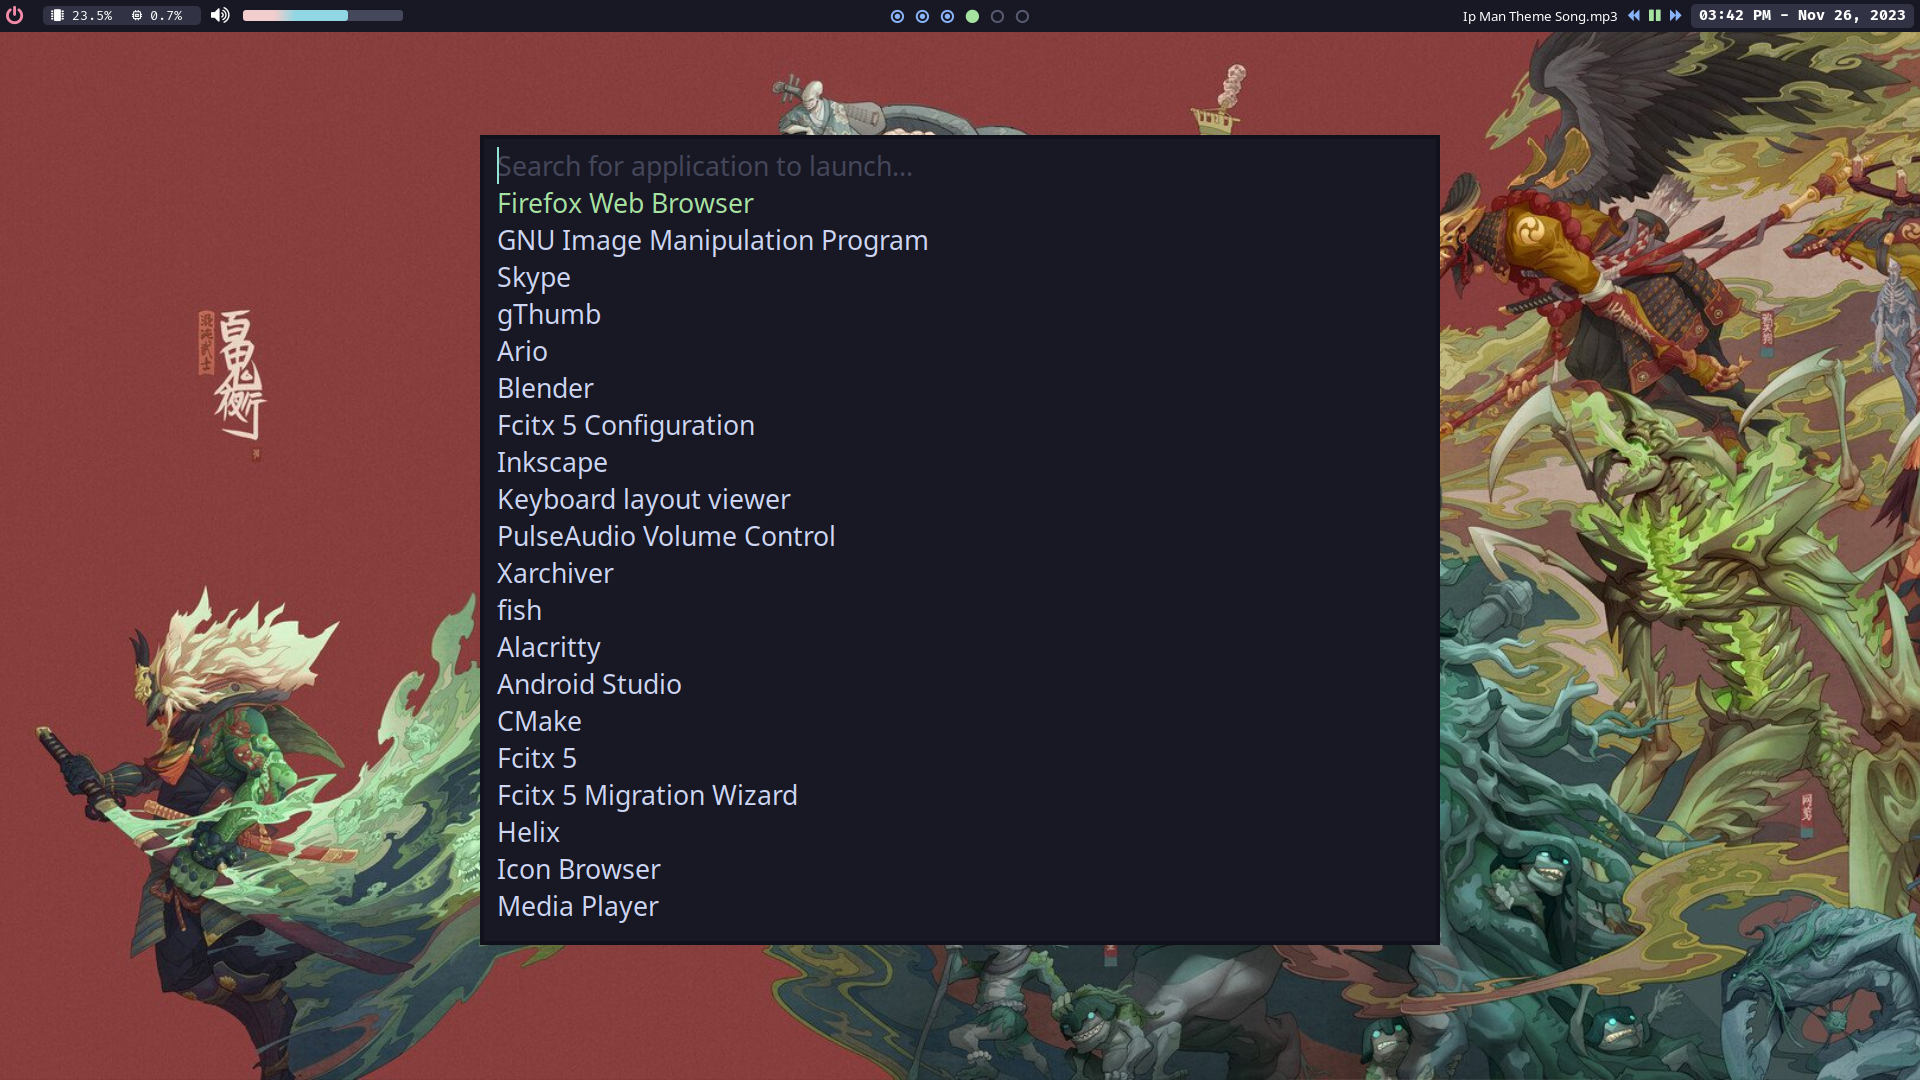
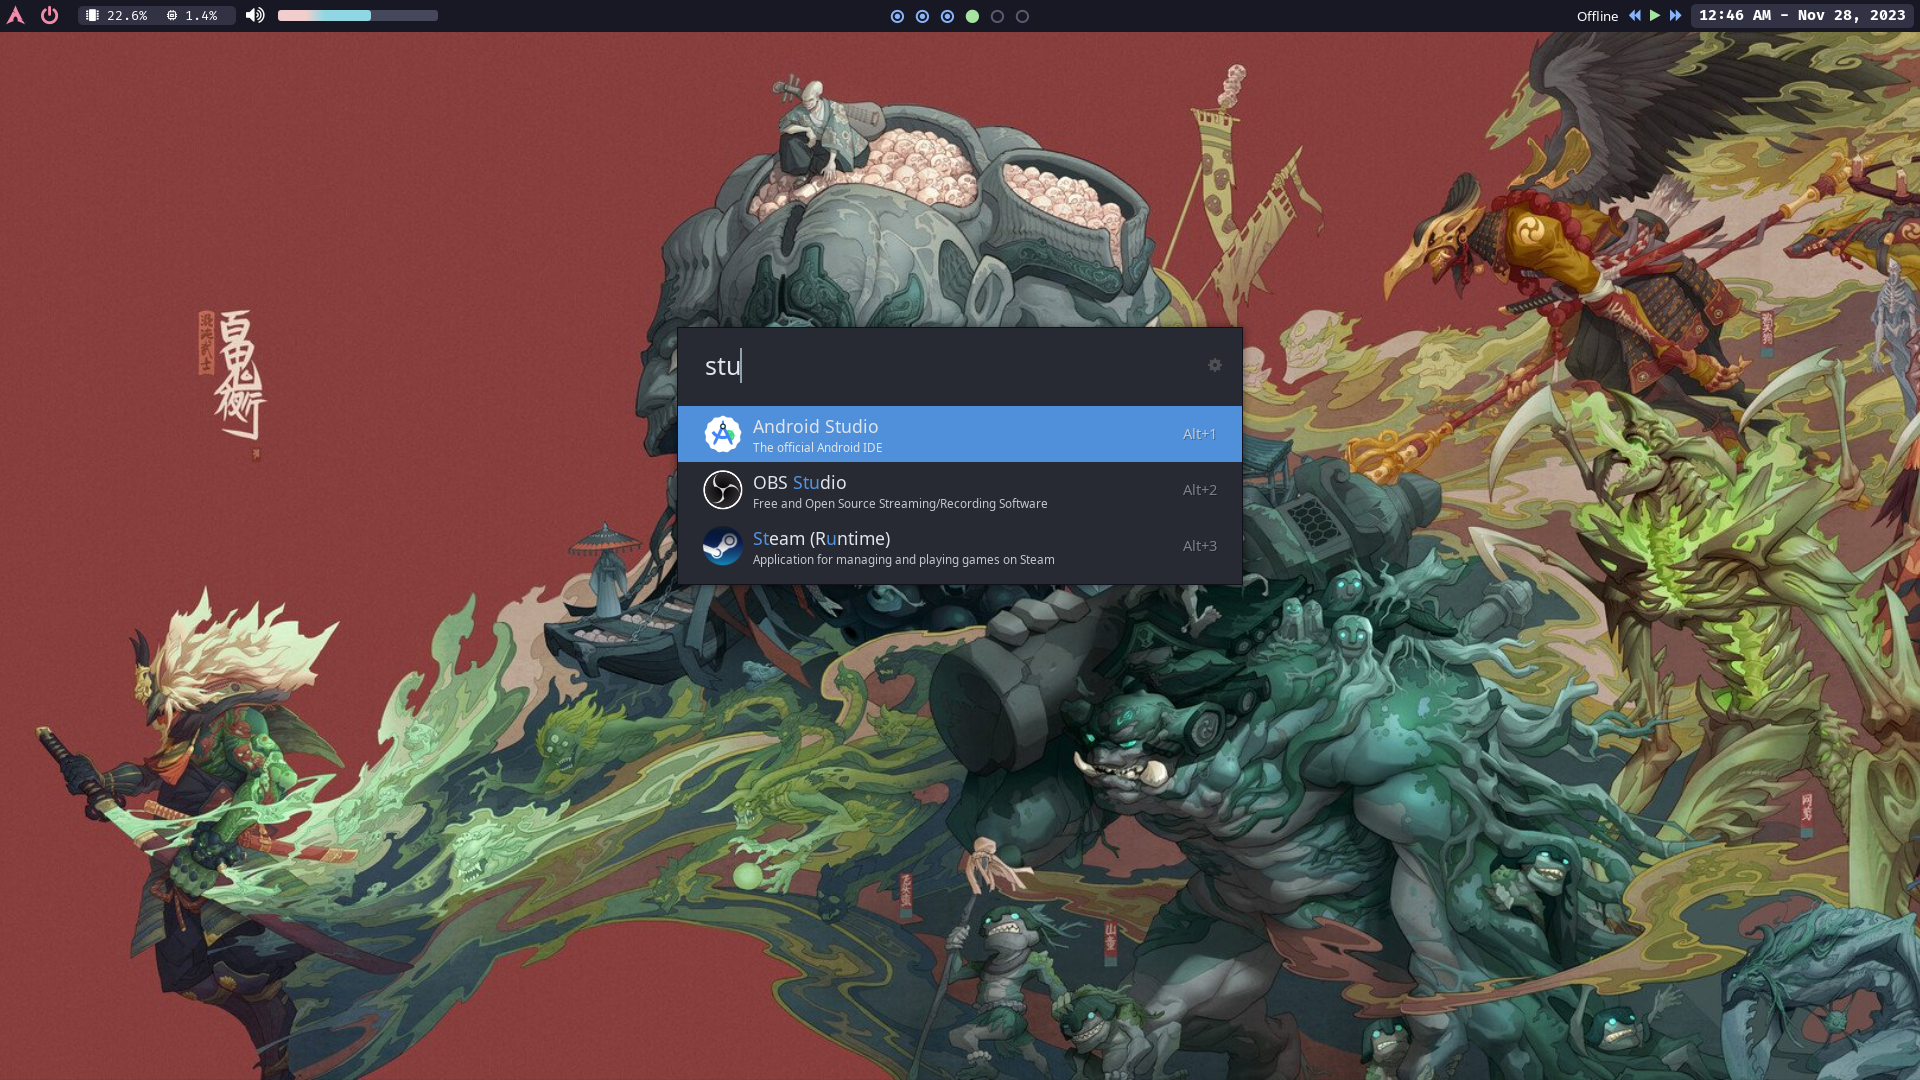
replace tofi with ulauncher

Changed region(s): [[0.25, 0.1222, 0.75, 0.8861], [0.0, 0.0, 0.2188, 0.0306], [0.7812, 0.0, 0.8438, 0.0306]]

diff --git a/.config/ulauncher/user-themes/qogir/theme.css b/.config/ulauncher/user-themes/qogir/theme.css
@@ -1,0 +1,96 @@
+/**
+ * App Window
+ */
+@define-color bg_color #282A33;
+@define-color window_bg @bg_color;
+@define-color window_border_color rgba(17, 17, 27, 1.0);
+@define-color prefs_backgroud #e0e5eb;
+
+/**
+ * Input
+ */
+@define-color selected_bg_color #5294e2;
+@define-color selected_fg_color #ffffff;
+@define-color input_color #e0e5eb;
+@define-color caret_color darker(@input_color);
+
+/**
+ * Result items
+ */
+@define-color item_name #e0e5eb;
+@define-color item_text #C4C7CC;
+@define-color item_box_selected #5294e2;
+@define-color item_text_selected #e0e5eb;
+@define-color item_name_selected #e0e5eb;
+@define-color item_shortcut_color #7A7F8B;
+@define-color item_shortcut_shadow darker(@bg_color);
+@define-color item_shortcut_color_sel #C4C7CC;
+@define-color item_shortcut_shadow_sel darker(@item_box_selected);
+
+.app {
+    background-color: @window_bg;
+    border-color: @window_border_color;
+    border-radius: 0;
+}
+
+.input {
+    color: @input_color;
+}
+
+/**
+ * Selected text in input
+ */
+.input *:selected,
+.input *:focus,
+*:selected:focus {
+    background-color: @selected_bg_color;
+    color: @selected_fg_color;
+}
+
+.item-text {
+    color: @item_text;
+}
+
+.item-name {
+    color: @item_name;
+}
+
+.selected.item-box {
+    background-color: alpha (@item_box_selected, 0.95);
+    border-left: 1px solid @window_border_color;
+    border-right: 1px solid @window_border_color;
+}
+
+.selected.item-box .item-text {
+    color: @item_text_selected;
+}
+
+.selected.item-box .item-name {
+    color: @item_name_selected;
+}
+
+.item-shortcut {
+    color: @item_shortcut_color;
+    text-shadow: 1px 1px 1px @item_shortcut_shadow;
+}
+
+.selected.item-box .item-shortcut {
+    color: @item_shortcut_color_sel;
+    text-shadow: 1px 1px 1px @item_shortcut_shadow_sel;
+}
+
+.prefs-btn {
+    opacity: 0.8;
+}
+
+.prefs-btn * {
+    box-shadow: none;
+}
+
+.prefs-btn:hover {
+    background-color: @prefs_backgroud;
+}
+
+.no-window-shadow {
+    margin: -20px;
+}

diff --git a/.config/ulauncher/user-themes/qogir/theme-gtk-3.20.css b/.config/ulauncher/user-themes/qogir/theme-gtk-3.20.css
@@ -1,0 +1,9 @@
+@import url("theme.css");
+
+.input {
+    caret-color: @caret_color;
+}
+.selected.item-box {
+    /* workaround for a bug in GTK+ < 3.20 */
+    border: none;
+}

diff --git a/README.md b/README.md
@@ -10,7 +10,7 @@
 - 📦 Window manager [hyprland](https://github.com/hyprwm/Hyprland)
 - 🔑 Display manager (the login thing) [sddm](https://wiki.archlinux.org/title/SDDM)
 - 📊 Status bar [eww](https://github.com/elkowar/eww)
-- 🚀 Program launcher [tofi](https://github.com/philj56/tofi)
+- 🚀 Program launcher [ulauncher](https://ulauncher.io)
 - 📂 File manager [joshuto](https://github.com/kamiyaa/joshuto)
 - 📋 Text editor [helix](https://helix-editor.com/)
 - 💻 Shell and terminal emulator [fish](https://wiki.archlinux.org/title/fish), [alacritty](https://alacritty.org/)
@@ -44,7 +44,7 @@ Please find equivalent of these packages on your system
 ```
 sddm arc-gtk-theme
 ttf-fira-code noto-fonts noto-fonts-cjk noto-fonts-emoji
-hyprland hyprpaper tofi mako grim slurp wl-clipboard
+hyprland hyprpaper ulauncher mako grim slurp wl-clipboard
 eww-wayland firefox joshuto
 alacritty helix exa git-delta
 ```
